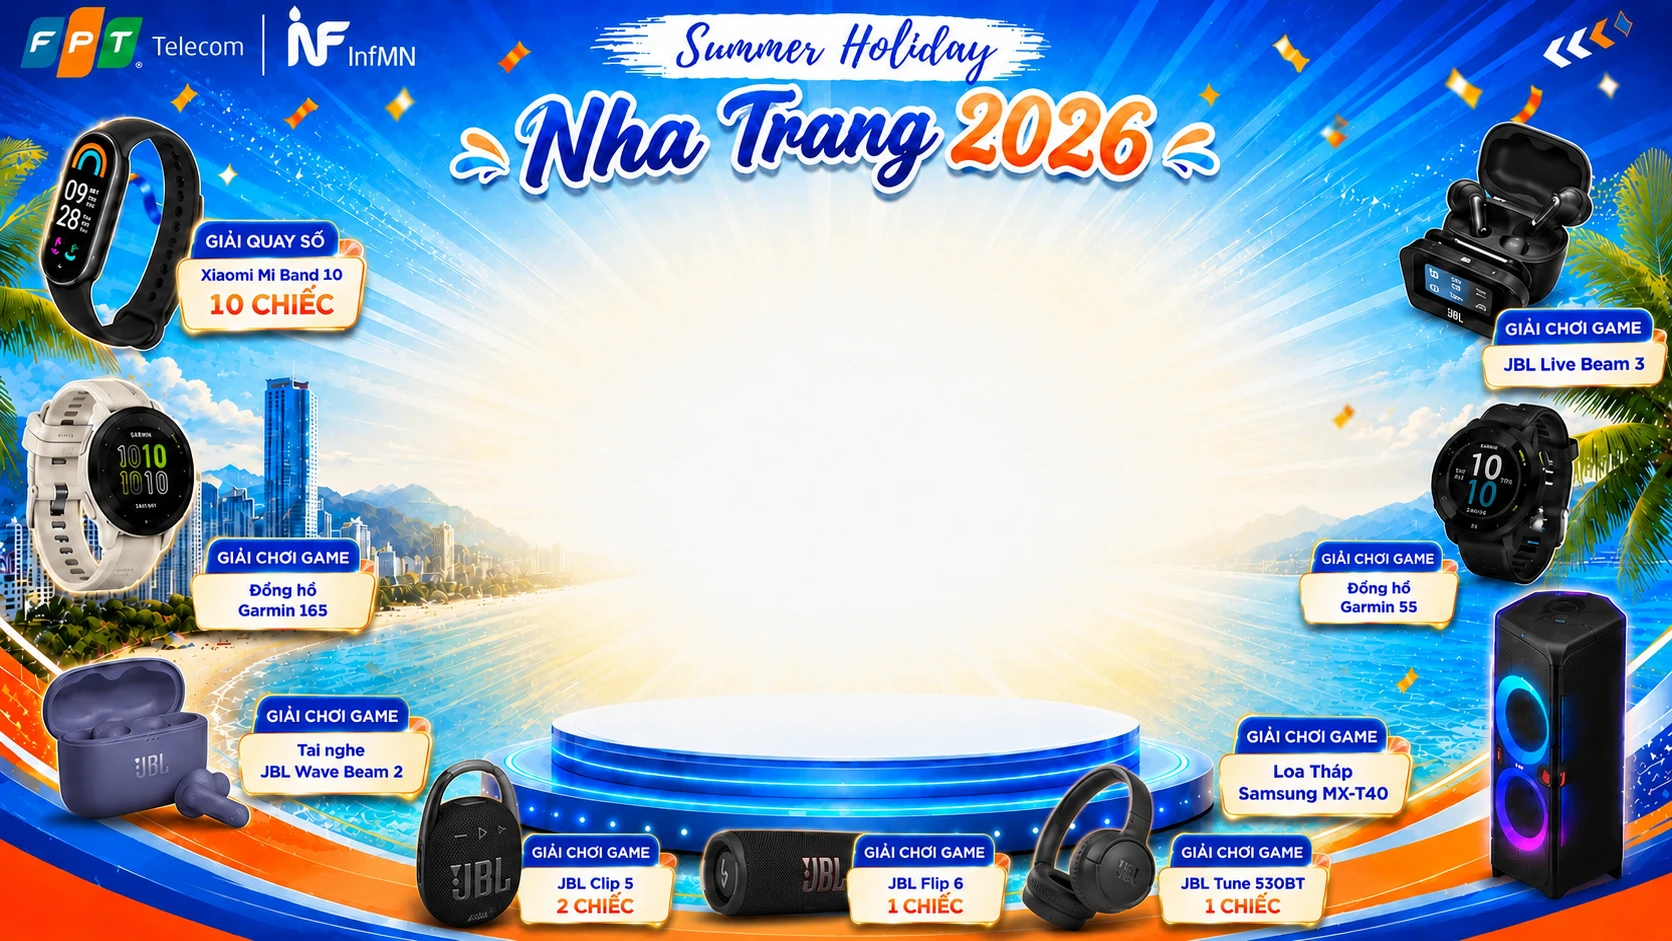
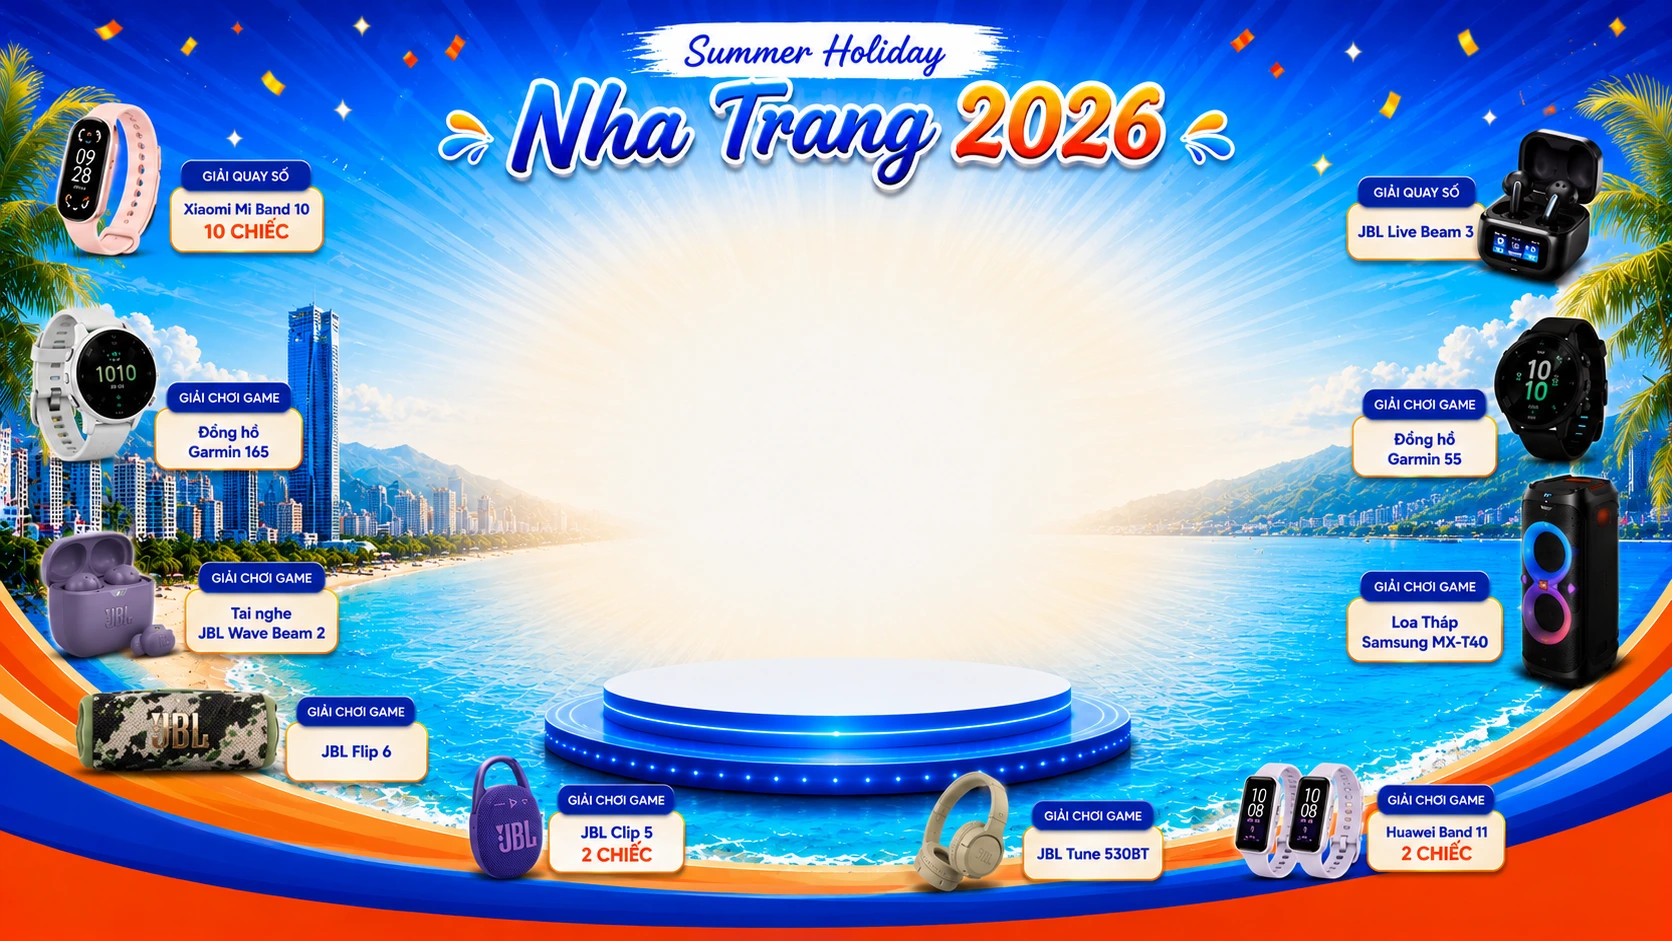
update background

diff --git a/css/form-info.css b/css/form-info.css
@@ -32,10 +32,7 @@ body {
 	width: 100%;
 	height: 100%;
 	z-index: -1;
-	background-image: var(
-		--bg-image,
-		url('../assets/og/HOLIDAY_INF_2026_02.webp')
-	);
+	background-image: var(--bg-image, url('../assets/og/HOLIDAY_INF_2026.webp'));
 	background-size: 100% 100%;
 	background-repeat: no-repeat;
 	background-position: center;

diff --git a/js/app.js b/js/app.js
@@ -21,7 +21,7 @@ var MY_CHART = null;
 
 const URL_BACKGROUND_HEADER_FORM =
 	'https://sf-static.upanhlaylink.com/img/image_20250826bb2383fa4c5c3fb975fc6130ddee0961.jpg';
-const URL_BACKGROUND = 'url(../assets/og/HOLIDAY_INF_2026_02.webp)';
+const URL_BACKGROUND = 'url(../assets/og/HOLIDAY_INF_2026.webp)';
 
 let MAX_REEL_ITEMS = 111; // ! THỜI GIAN CỦA VÒNG QUAY
 const CONFETTI_COLORS = [

diff --git a/js/manual-app.js b/js/manual-app.js
@@ -12,7 +12,7 @@ var SPIN_DURATION = 5; // Mặc định 5 giây
 var PRIZE = null;
 var PRIZE_DATA = null;
 
-const URL_BACKGROUND = 'url(../assets/og/HOLIDAY_INF_2026_02.webp)';
+const URL_BACKGROUND = 'url(../assets/og/HOLIDAY_INF_2026.webp)';
 const CONFETTI_COLORS = [
 	'#26ccff',
 	'#a25afd',

diff --git a/index.html b/index.html
@@ -272,6 +272,7 @@
 							</div>
 						</div>
 					</div>
+					Giải đặc biệt
 					<div class="panel-footer">
 						<button
 							id="settings-save-prize-select"